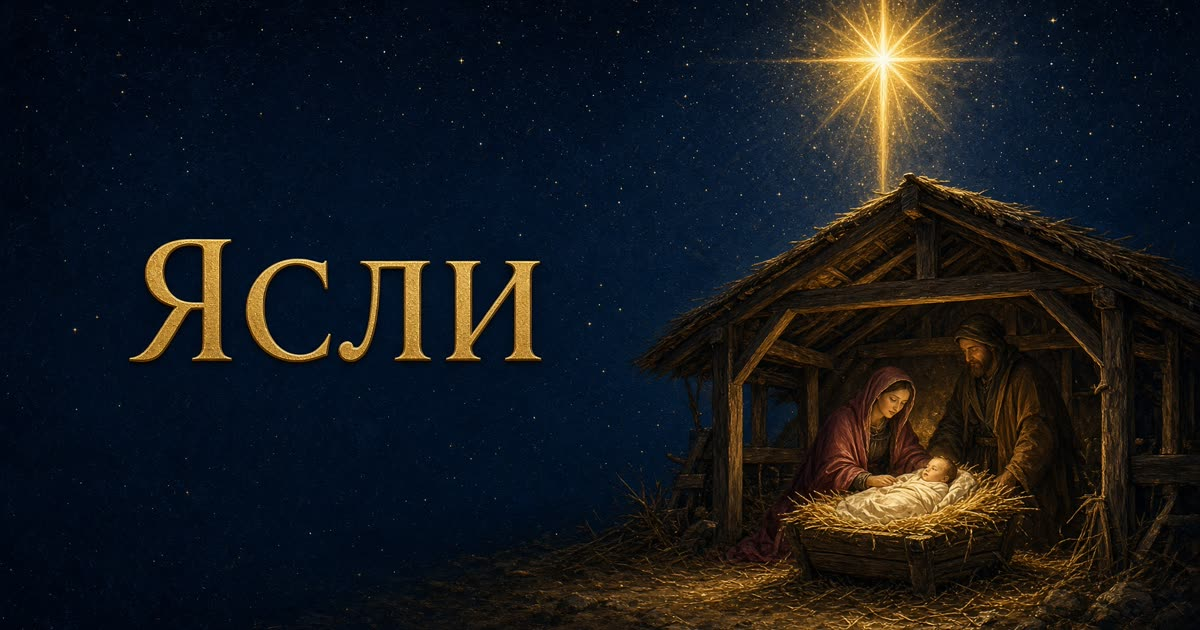
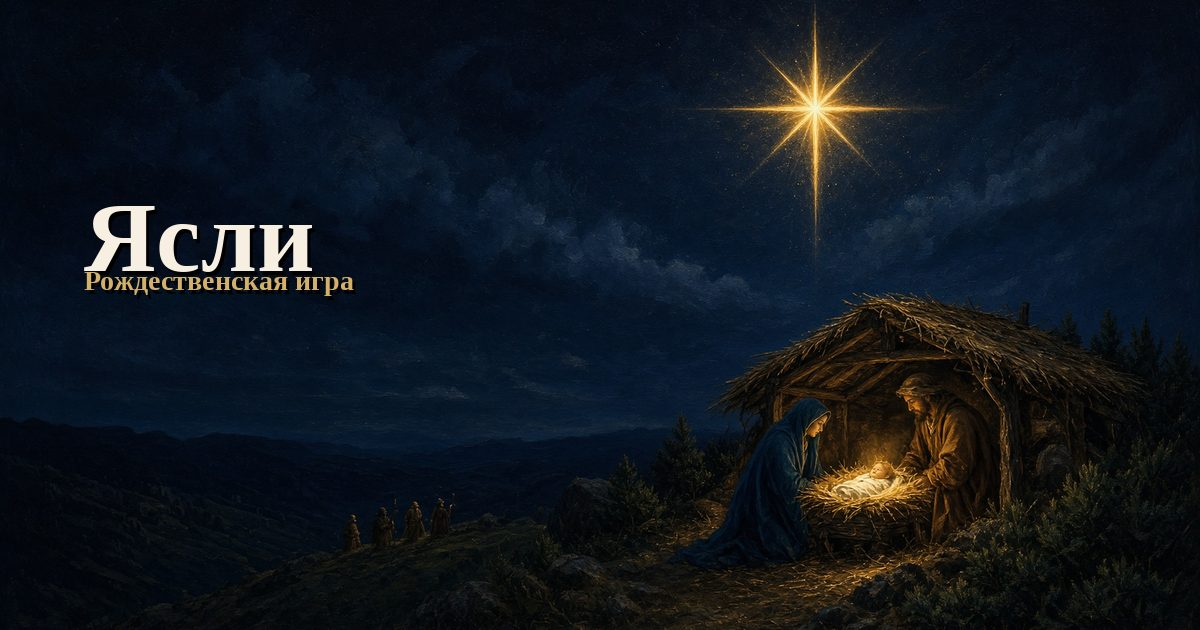
Ясли 1.1.7
Рождественская иконка с яслями и набор картинок для RuStore и Яндекс Диалогов.

diff --git a/src/game/version.ts b/src/game/version.ts
@@ -1,8 +1,8 @@
 /** Одна версия для телефона, планшета и телевизора. */
-export const APP_VERSION = "1.1.6";
+export const APP_VERSION = "1.1.7";
 
 /** Целое для Android: растёт с каждой сборкой. 1.1.6 → 116. */
-export const APP_VERSION_CODE = 116;
+export const APP_VERSION_CODE = 117;
 
 export const APP_NAME = "Ясли";
 

diff --git a/store/README.md b/store/README.md
@@ -1,0 +1,45 @@
+# Картинки «Яслей» для витрин
+
+Иконка одна и та же в приложении и в магазинах: ясли, звезда, Мария и Иосиф. Фон залит до краёв, прозрачности нет. На круглой маске сцена не обрезается.
+
+## Куда что класть
+
+| Файл | Куда |
+| --- | --- |
+| `rustore/icon-512.png` | RuStore, иконка телефона. 512×512, PNG, без прозрачности. |
+| `yandex/icon-512.png` | YaOS Store, та же иконка. |
+| `yandex/icon-224.png` | Яндекс Диалоги, иконка навыка. В консоли нужно 224×224. |
+| `android/ic_launcher.png` | Уже вшита в APK. |
+| `android/tv_banner.png` | Баннер лаунчера Android TV / YaOS, 320×180, уже в APK. |
+| `rustore/tv-banner-1280x720.png` | Баннер ТВ в карточке RuStore. |
+| `yandex/tv-banner-1920x1080.png` | Баннер ТВ для YaOS, если просят крупнее. |
+| `rustore/promo-1280x720.jpg` | Рекламный баннер RuStore: 1280×720, меньше 150 КБ. Названия на нём нет. |
+| `yandex/card-1200x675.jpg` | Картинка в ответ навыка. Меньше 1 МБ. |
+| `screenshots/phone/` | Пять вертикальных скриншотов, 1080×2337. Для телефона и планшета, ориентация одна. |
+| `screenshots/tv/` | Четыре скриншота 1920×1080. |
+
+Скриншоты сняты с живого приложения: главная, правила, кто идёт, передача телефона, вопрос.
+
+## Текст для карточки
+
+Название: Ясли
+
+Кратко: Семейная игра о католическом Рождестве. Один телефон, дети и взрослые.
+
+Полное:
+
+Ясли — домашняя игра о католическом Рождестве. Один телефон на всю семью. Ребёнку короткие вопросы про ясли, звезду и имя. Взрослому — календарь, Непорочное Зачатие, Николай и Санта, смысл даров.
+
+Короткий путь — шесть стоянок, от Благовещения до Богоявления. Вечерний — двенадцать, от Адвента до Богоявления. После ответа всегда есть пояснение. В конце — стих из Евангелия от Луки и короткая молитва.
+
+Игра работает без интернета. Есть русский, белорусский, украинский, итальянский, английский, французский, немецкий, испанский, португальский и польский. С запуска играет рождественская музыка, её можно выключить.
+
+На телевизоре кнопки нажимаются пультом. Алиса нажимает кнопку по её словам. Имя можно сказать вслух.
+
+Это домашний вечер, не замена Мессе и не приходской катехизис.
+
+Возраст: 6+
+Категория: игры для семьи
+Почта: alexey@ermakov-mail.ru
+
+Для навыка в Диалогах активационные фразы: «запусти ясли», «запусти навык ясли».

diff --git a/README.md b/README.md
@@ -1,4 +1,4 @@
-# Ясли 1.1.6
+# Ясли 1.1.7
 
 Семейная игра о католическом Рождестве. Один телефон на всех: ребёнку — короткий вопрос, взрослому — вопрос по Евангелию и катехизису. История идёт от Благовещения к яслям и Богоявлению.
 
@@ -16,10 +16,10 @@
 
 | Файл | Куда | Пакет |
 | --- | --- | --- |
-| [Yasli-Phone-1.1.6.apk](https://github.com/GrafAtRuss/yasli/releases/download/v1.1.6/Yasli-Phone-1.1.6.apk) | Телефон и планшет | `ru.yasli.phone` |
-| [Yasli-TV-1.1.6.apk](https://github.com/GrafAtRuss/yasli/releases/download/v1.1.6/Yasli-TV-1.1.6.apk) | Android TV, YaOS и YaOS X | `ru.yasli.tv` |
+| [Yasli-Phone-1.1.7.apk](https://github.com/GrafAtRuss/yasli/releases/download/v1.1.7/Yasli-Phone-1.1.7.apk) | Телефон и планшет | `ru.yasli.phone` |
+| [Yasli-TV-1.1.7.apk](https://github.com/GrafAtRuss/yasli/releases/download/v1.1.7/Yasli-TV-1.1.7.apk) | Android TV, YaOS и YaOS X | `ru.yasli.tv` |
 
-Оба пакета — версия 1.1.6, код 116, minSdk 24, targetSdk 35. Разрешения ставить обновления самому нет: новую версию ставит RuStore или магазин YaOS. Интернета у приложения нет.
+Оба пакета — версия 1.1.7, код 117, minSdk 24, targetSdk 35. Разрешения ставить обновления самому нет: новую версию ставит RuStore или магазин YaOS. Интернета у приложения нет.
 
 Язык берётся из системы. Если перевода нет, открывается английский. В углу экрана — смена языка и выключатель музыки. Языки: русский, белорусский, украинский, итальянский, английский, французский, немецкий, испанский, португальский, польский.
 
@@ -30,6 +30,8 @@
[1 lines of base64/hex data omitted]
 
 Сборка: `sh scripts/build-android.sh`. Нужны Java 17 и Android SDK в `.android-sdk` (platform 35, build-tools 35).
+
+Картинки для RuStore и Яндекс Диалогов лежат в [store/README.md](store/README.md).
 
 ## Как устроена игра
 

diff --git a/CHANGELOG.md b/CHANGELOG.md
@@ -1,5 +1,10 @@
 # Изменения
 
+## 1.1.7
+
+- Новая иконка: ясли, звезда и Святое Семейство. Она же на телефоне и на телевизоре.
+- Баннер телевизора с названием. В `store/` лежит полный набор картинок для RuStore и Яндекс Диалогов.
+
 ## 1.1.6
 
 - Десять языков: русский, белорусский и украинский, затем итальянский, английский, французский, немецкий, испанский, португальский и польский — как на сайте Elemosineria. По умолчанию язык системы, если его нет в переводах — английский. Язык можно сменить кнопкой в углу.
